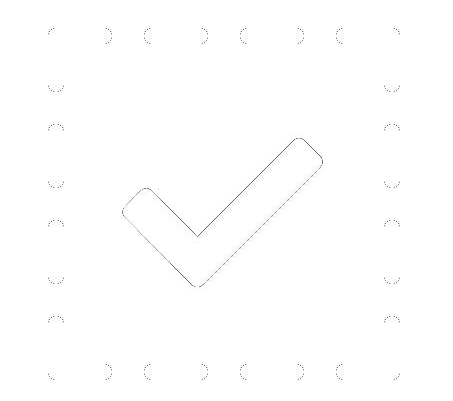
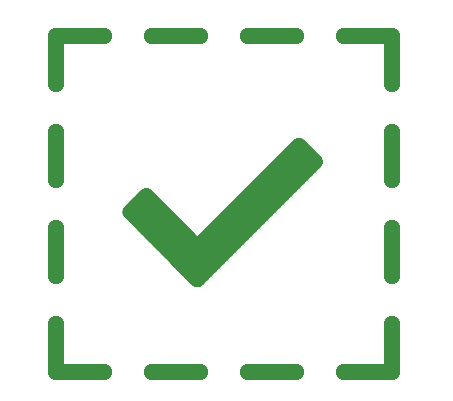
修改白底框，修改地图样式与白底框匹配

diff --git a/src/App.vue b/src/App.vue
@@ -165,7 +165,7 @@ export default {
     loadmap(){
       this.map = new AMap.Map('container', {
         zoom: 12,
-        mapStyle: 'amap://styles/whitesmoke',
+        mapStyle: 'amap://styles/399846b22d60cd9dddca38485ce139d2',
         features: ['bg', 'road', 'building', 'point'],
         center: [123.438261, 41.821984]
       });
@@ -184,7 +184,7 @@ export default {
       AMap.plugin(["AMap.Heatmap"], function () {
       //初始化heatmap对象
       cache.heatmap = new AMap.Heatmap(map, {
-          radius: 25, //给定半径
+          radius: 40, //给定半径
           opacity: [0, 0.8],
           gradient:{
               0.5: 'blue',
@@ -265,7 +265,7 @@ export default {
           var scale = this.scale;
           var circle = new AMap.Circle({
             center: arrest.location,  // 圆心位置
-            radius: 100, // 圆半径
+            radius: 200, // 圆半径
             fillColor: 'rgba(1, 88, ' + scale(arrest.hours) + ', 0.6)',   // 圆形填充颜色
             strokeColor: '#fff', // 描边颜色
             strokeWeight: 1, // 描边宽度

diff --git a/src/style/common.scss b/src/style/common.scss
@@ -110,13 +110,14 @@ p.title{
 
   #toolBox{
     width:20%;
-    background-color: black;
+    background-color: white;
     border-radius:5px;
     justify-content: center;
   }
+
   .toolBox{
     width:20%;
-    background-color: black;
+    background-color: white;
     border-radius:5px;
     justify-content: center;
   }
@@ -124,13 +125,13 @@ p.title{
   #infoBox{
     width:20%;
     height: 100%;
-    background-color: black;
+    background-color: white;
     border-radius:5px;
     justify-content: center;
   }
 
   .boxtext{
-    color: white;
+    color: black;
     z-index: 6;
   }
 
@@ -152,6 +153,7 @@ p.title{
     width: 80%;
     border-radius: 10px; /*这个属性设置使填充进度条时的图形为圆角*/
     height: 10px;
+    background-color: #3e8e41;
   }
   .slider::-webkit-slider-thumb {
     -webkit-appearance: none;

diff --git a/src/arrestDialog.vue b/src/arrestDialog.vue
@@ -1,4 +1,4 @@
-  <template>
+<template>
       <div v-bind:style="{left : left}"  class="floatToolBar toolBox">
         <p class="boxtext boxtitle">驻点分析工具</p>
         <div class="boxitem">
@@ -46,10 +46,9 @@
           </div>
         </div>
       </div>
-      </template>
+</template>
 
-      <script>
-
+<script>
 export default {
     mounted(){
 

diff --git a/src/funcMenu.vue b/src/funcMenu.vue
@@ -20,7 +20,7 @@ export default {
         list:["http://jd.com",
             "http://jd.com",
             "http://jd.com"],
-        backgroundColor:'#42A5F5',
+        backgroundColor:'#3e8e41',
         color:'#eee',
         position:'top-right',
         isOpenNewTab:false
